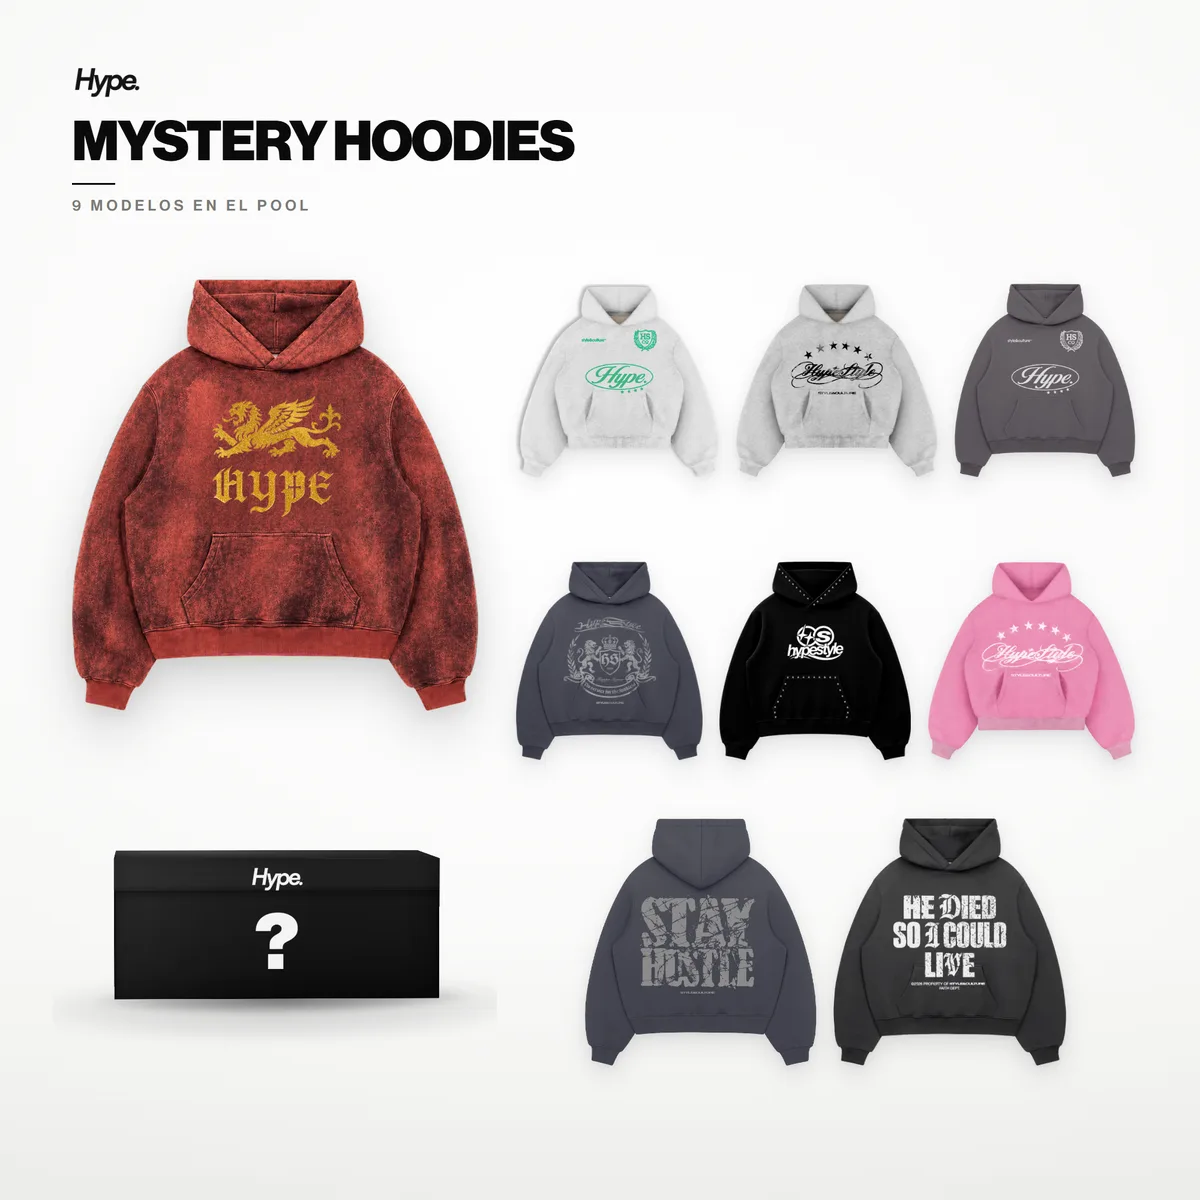
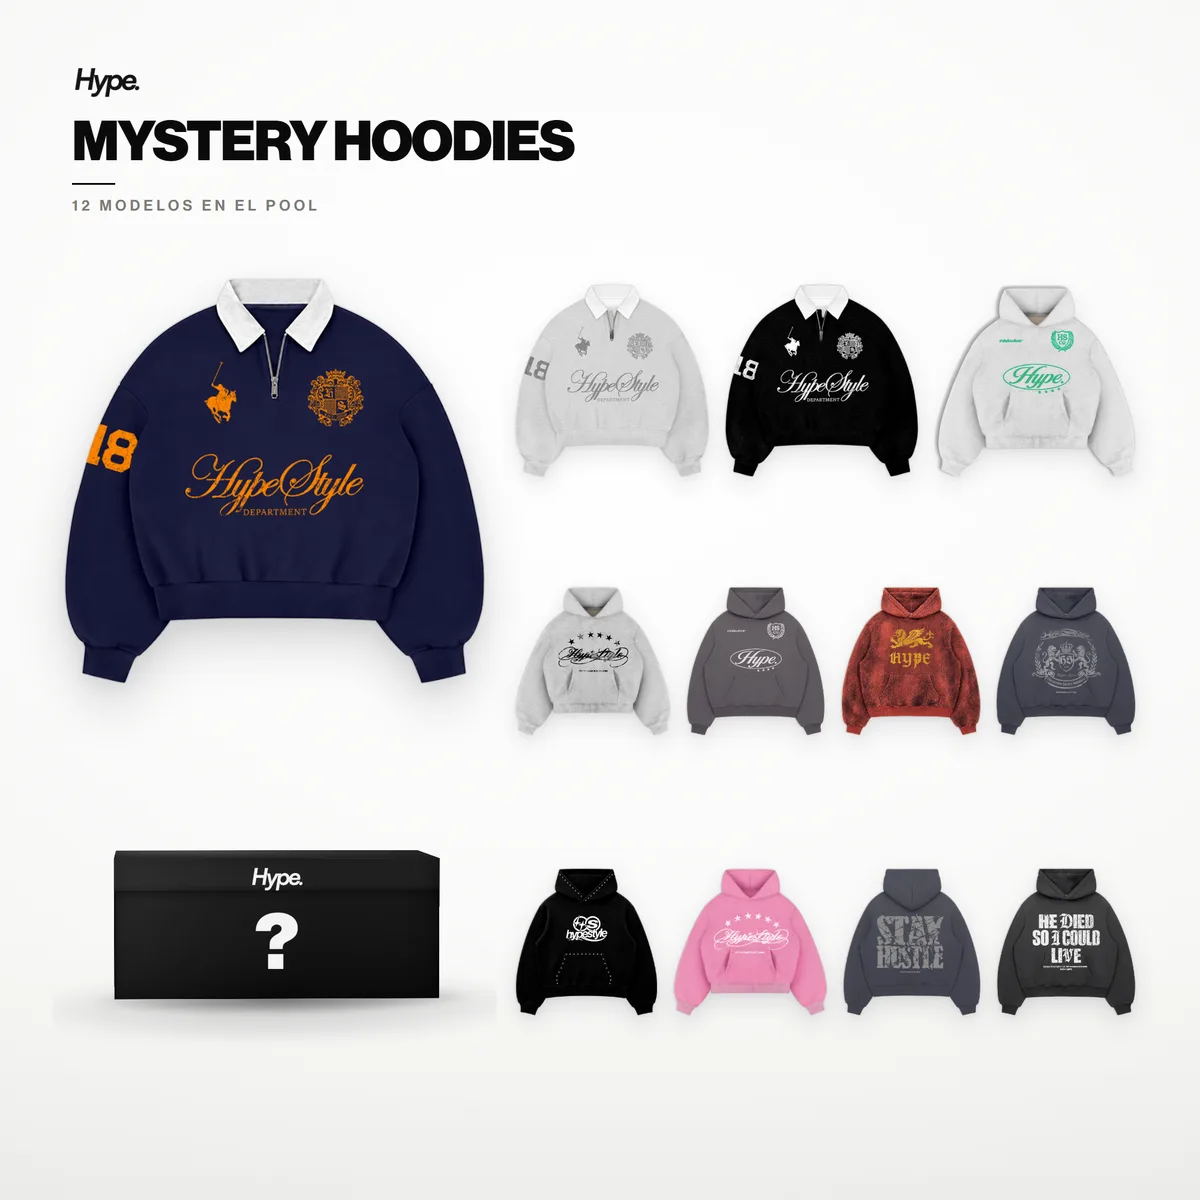
feat(cyber): portadas Mystery corregidas y pools recategorizados
Las tres correcciones de Valentin, aplicadas y verificadas en la pagina:

1. HALF-ZIP POLO a HOODIES, como protagonistas: son 56 de las 128 unidades
   del pool (44%), la familia de stock mas parejo y la de costo mas bajo
   ($14.784 contra $21.846 del buzo), asi que son los que sostienen el
   margen. El navy encabeza la portada. De paso arreglan la curva rota: en
   talle L ahora pueden tocar 7 modelos en vez de 4.
2. WAFFLES adentro de longsleeves, UNA ficha por pila: las dos washed black
   comen la misma pila de 6 u, asi que entra solo la Dept of Culture (la
   H.Y.P.E ya esta en los destacados, asi el waffle entra a la caja sin salir
   de la vidriera). Entre las dos fichas de waffle aportan 11 unidades
   REALES, no 22 — anotado para que nadie sume de mas al armar.
3. CONTORNO uniforme en todas las prendas (halo de 1,5 px): las blancas de
   manga combinada ya no parecen sin mangas.

Conteos actualizados: TEES 13 modelos, LONGSLEEVES 10 (eran 11), HOODIES 12
(eran 9).

diff --git a/next-app/lib/cyber-cartelera.ts b/next-app/lib/cyber-cartelera.ts
@@ -180,10 +180,11 @@ export const CYBER_MYSTERY: CyberMysteryCategoria[] = [
     id: 'longsleeves',
     nombre: 'Mystery Longsleeves',
     detalle: 'Waffles, Athletic Dept y raglans del archivo. Elegís tu talle; el modelo es sorpresa.',
-    // Pendiente de actualizar con el conteo definitivo: los Half-Zip Polo se
-    // van a HOODIES (decisión del 29/10) y entran los waffles, mostrando una
-    // sola ficha por pila compartida para no contar dos veces el mismo blank.
-    pool: '11 modelos en el pool',
+    // Los Half-Zip Polo se fueron a HOODIES y entraron los waffles, con UNA
+    // sola ficha por pila compartida: las dos washed black comen la misma
+    // pila de 6 u, así que entra solo la Dept of Culture. Entre waffles
+    // aportan 11 unidades reales, no 22 — ojo al armar las cajas.
+    pool: '10 modelos en el pool',
     img: '/cyber/mystery/longsleeves-v5.webp',
     href: null,
   },
@@ -193,7 +194,9 @@ export const CYBER_MYSTERY: CyberMysteryCategoria[] = [
     // Los Half-Zip Polo cuentan como hoodies y son los protagonistas del pool
     // ("los que más vamos a estar enviando", 29/10), así que encabezan el copy.
     detalle: 'Half-Zip Polos y hoodies del archivo. Elegís tu talle; el modelo es sorpresa.',
-    pool: '9 modelos en el pool',
+    // 56 de las 128 unidades del pool son Half-Zip Polo: la familia de stock
+    // más parejo y la de costo más bajo, o sea la que sostiene el margen.
+    pool: '12 modelos en el pool',
     img: '/cyber/mystery/hoodies-v5.webp',
     href: null,
   },
